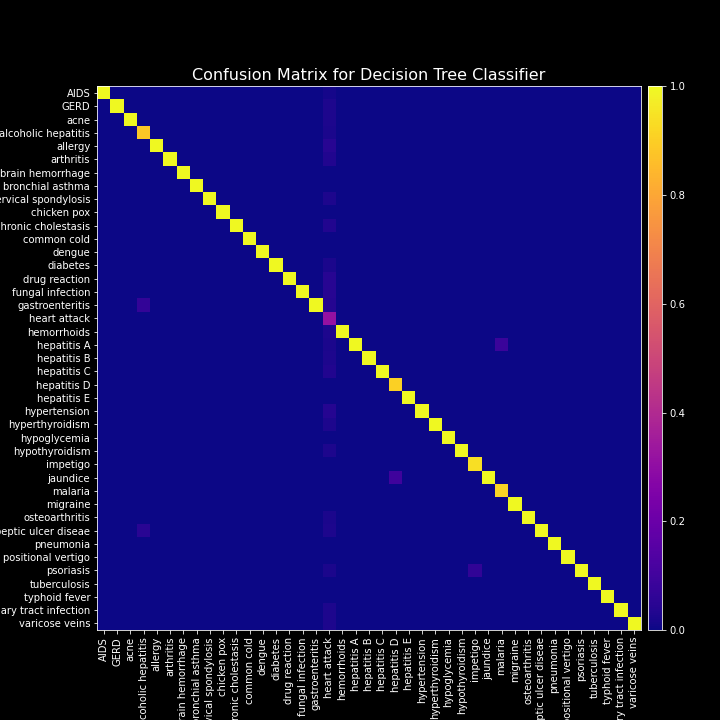
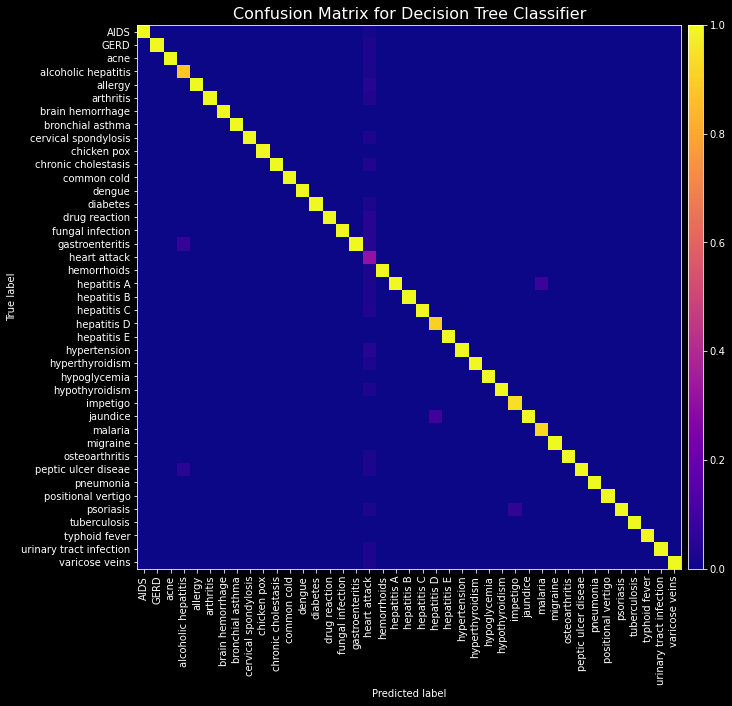
update files
Fix confusion matrix cropping

diff --git a/README.md b/README.md
@@ -79,6 +79,10 @@ Decision Tree Classifier was trained with a max depth of 10 to prevent overfitti
 
 <!-- TODO: reframe/resize confusion matrices! -->
 
+![clf confusion matrix](/Images/clf_confusion_matrix.png)
+
+![svm confusion matrix](/Images/svm_confusion_matrix.png)
+
 The decision tree benchmark performed decently at nearly 95% accuracy, yet the [confusion matrix](/Images/clf_confusion_matrix.png) reveals a practical issue with the model: many illnesses are sometimes falsely predicted as heart attacks!
 
 The support vector machine performs at a better 98% accuracy and has a less worrying [confusion matrix](/Images/svm_confusion_matrix.png). Variations of hepatitis are sometimes confused with each other or another liver illness, chronic cholestasis. Drug reaction is sometimes misdiagnosed as acne, which should be straightforward for the end user to distinguish. This model appears to perform well in the context of accurately and reasonably diagnosing illness based on reported symptoms.
